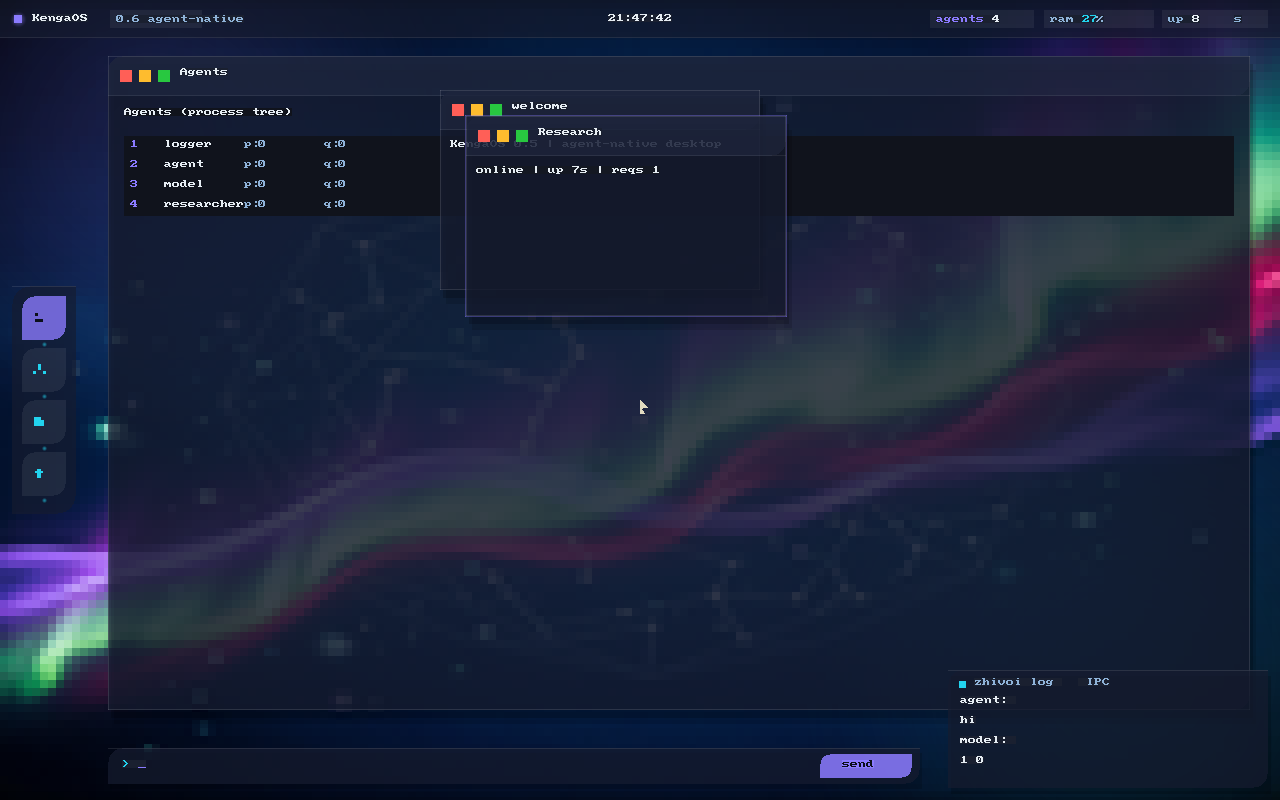
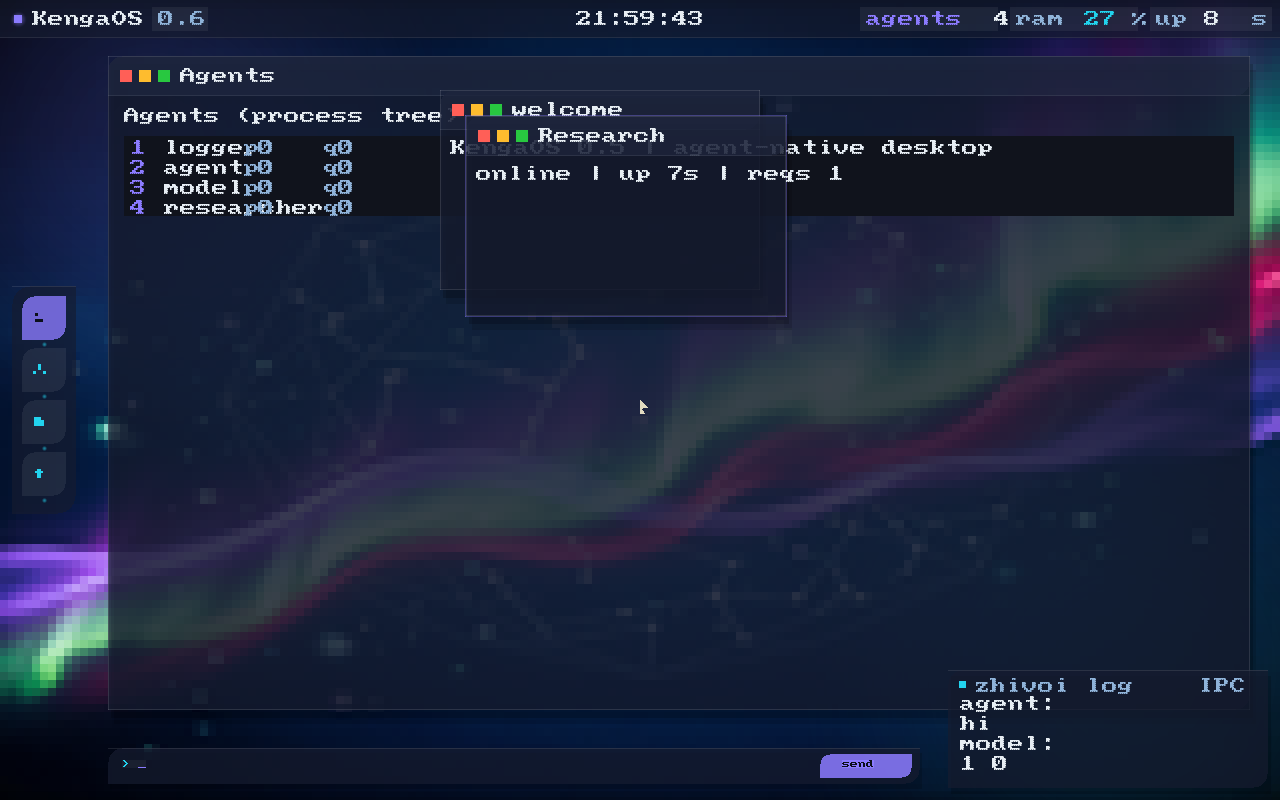
ui: bilinear wallpaper upscale + 2x anti-aliased font (kill the DOS look)

diff --git a/kernel/kf_fb.c b/kernel/kf_fb.c
@@ -568,6 +568,72 @@ int64_t k_fb_text(int64_t x, int64_t y, int64_t fg, int64_t bg, const char* s) {
     return 1;
 }
 
+/* Smooth 2x text: renders the 8x8 font scaled to 16x16 with edge
+   anti-aliasing (each glyph pixel -> 2x2 block; edge pixels get alpha
+   blending). This is what kills the 'DOS look' in the UI. */
+int64_t k_fb_draw_char2x(int64_t x, int64_t y, int64_t fg, int64_t bg, int64_t c) {
+    if ((uint64_t)x >= fb_w - 15 || (uint64_t)y >= fb_h - 15) return 0;
+    uint32_t f = (uint32_t)fg;
+    uint32_t b = (uint32_t)bg;
+    const uint8_t* glyph = 0;
+    if (c >= 32 && c <= 126) {
+        glyph = FONT8X8[(int)c - 32];
+    } else if (c >= 0x410 && c <= 0x44F) {
+        int cyr_idx = (int)(c - 0x410);
+        if (cyr_idx >= 0 && cyr_idx < 64) glyph = FONT_CYR[cyr_idx];
+    }
+    if (!glyph) return 0;
+    /* 16x16 coverage: each source pixel contributes 4 output pixels.
+       Horizontal edges get 40% coverage on the right column, vertical
+       edges 40% on the bottom row -> faux anti-aliasing. */
+    for (int r = 0; r < 8; r++) {
+        uint8_t row = glyph[r];
+        uint8_t row_below = (r + 1 < 8) ? glyph[r + 1] : 0;
+        for (int bit = 0; bit < 8; bit++) {
+            int on = (row >> (7 - bit)) & 1;
+            if (!on) continue;
+            int on_right  = (bit + 1 < 8) ? (row >> (7 - (bit + 1))) & 1 : 0;
+            int on_below  = (row_below >> (7 - bit)) & 1;
+            int x2 = (int)x + bit * 2;
+            int y2 = (int)y + r * 2;
+            /* solid core */
+            fb_put((uint32_t)x2, (uint32_t)y2, f);
+            fb_put((uint32_t)x2 + 1, (uint32_t)y2, f);
+            fb_put((uint32_t)x2, (uint32_t)y2 + 1, f);
+            /* right edge: half coverage if the neighbor is off */
+            if (!on_right) {
+                uint32_t mix_r = ((f >> 16 & 255) * 128 + (b >> 16 & 255) * 127) >> 8;
+                uint32_t mix_g = ((f >> 8 & 255) * 128 + (b >> 8 & 255) * 127) >> 8;
+                uint32_t mix_b = ((f & 255) * 128 + (b & 255) * 127) >> 8;
+                fb_put((uint32_t)x2 + 1, (uint32_t)y2, (mix_r << 16) | (mix_g << 8) | mix_b);
+            } else {
+                fb_put((uint32_t)x2 + 1, (uint32_t)y2, f);
+            }
+            /* bottom edge */
+            if (!on_below) {
+                uint32_t mix_r = ((f >> 16 & 255) * 128 + (b >> 16 & 255) * 127) >> 8;
+                uint32_t mix_g = ((f >> 8 & 255) * 128 + (b >> 8 & 255) * 127) >> 8;
+                uint32_t mix_b = ((f & 255) * 128 + (b & 255) * 127) >> 8;
+                fb_put((uint32_t)x2 + 1, (uint32_t)y2 + 1, (mix_r << 16) | (mix_g << 8) | mix_b);
+            } else {
+                fb_put((uint32_t)x2 + 1, (uint32_t)y2 + 1, f);
+            }
+        }
+    }
+    /* clear the background for glyph spacing */
+    return 16;
+}
+
+int64_t k_fb_text2x(int64_t x, int64_t y, int64_t fg, int64_t bg, const char* s) {
+    int64_t cx = x;
+    for (const char* p = s; *p; p++) {
+        int64_t adv = k_fb_draw_char2x(cx, y, fg, bg, (int64_t)(unsigned char)*p);
+        if (adv == 0) adv = 16;
+        cx += adv;
+    }
+    return cx - x;
+}
+
 /* --- text console (M2.3): char buffer + cursor + scroll --- */
 #define CON_COLS_MAX 160
 #define CON_ROWS_MAX 90

diff --git a/kernel/kf_rt.h b/kernel/kf_rt.h
@@ -215,6 +215,7 @@ int64_t k_fb_width(void);
 int64_t k_fb_height(void);
 int64_t k_fb_putpixel(int64_t x, int64_t y, int64_t color);
 int64_t k_wp_draw(int64_t x, int64_t y, int64_t w, int64_t h);
+int64_t k_fb_text2x(int64_t x, int64_t y, int64_t fg, int64_t bg, const char* s);
 int64_t k_fb_getpixel(int64_t x, int64_t y);
 int64_t k_fb_fill(int64_t color);
 void k_fb_fill_rect(int64_t x0, int64_t y0, int64_t w, int64_t h, int64_t color);
